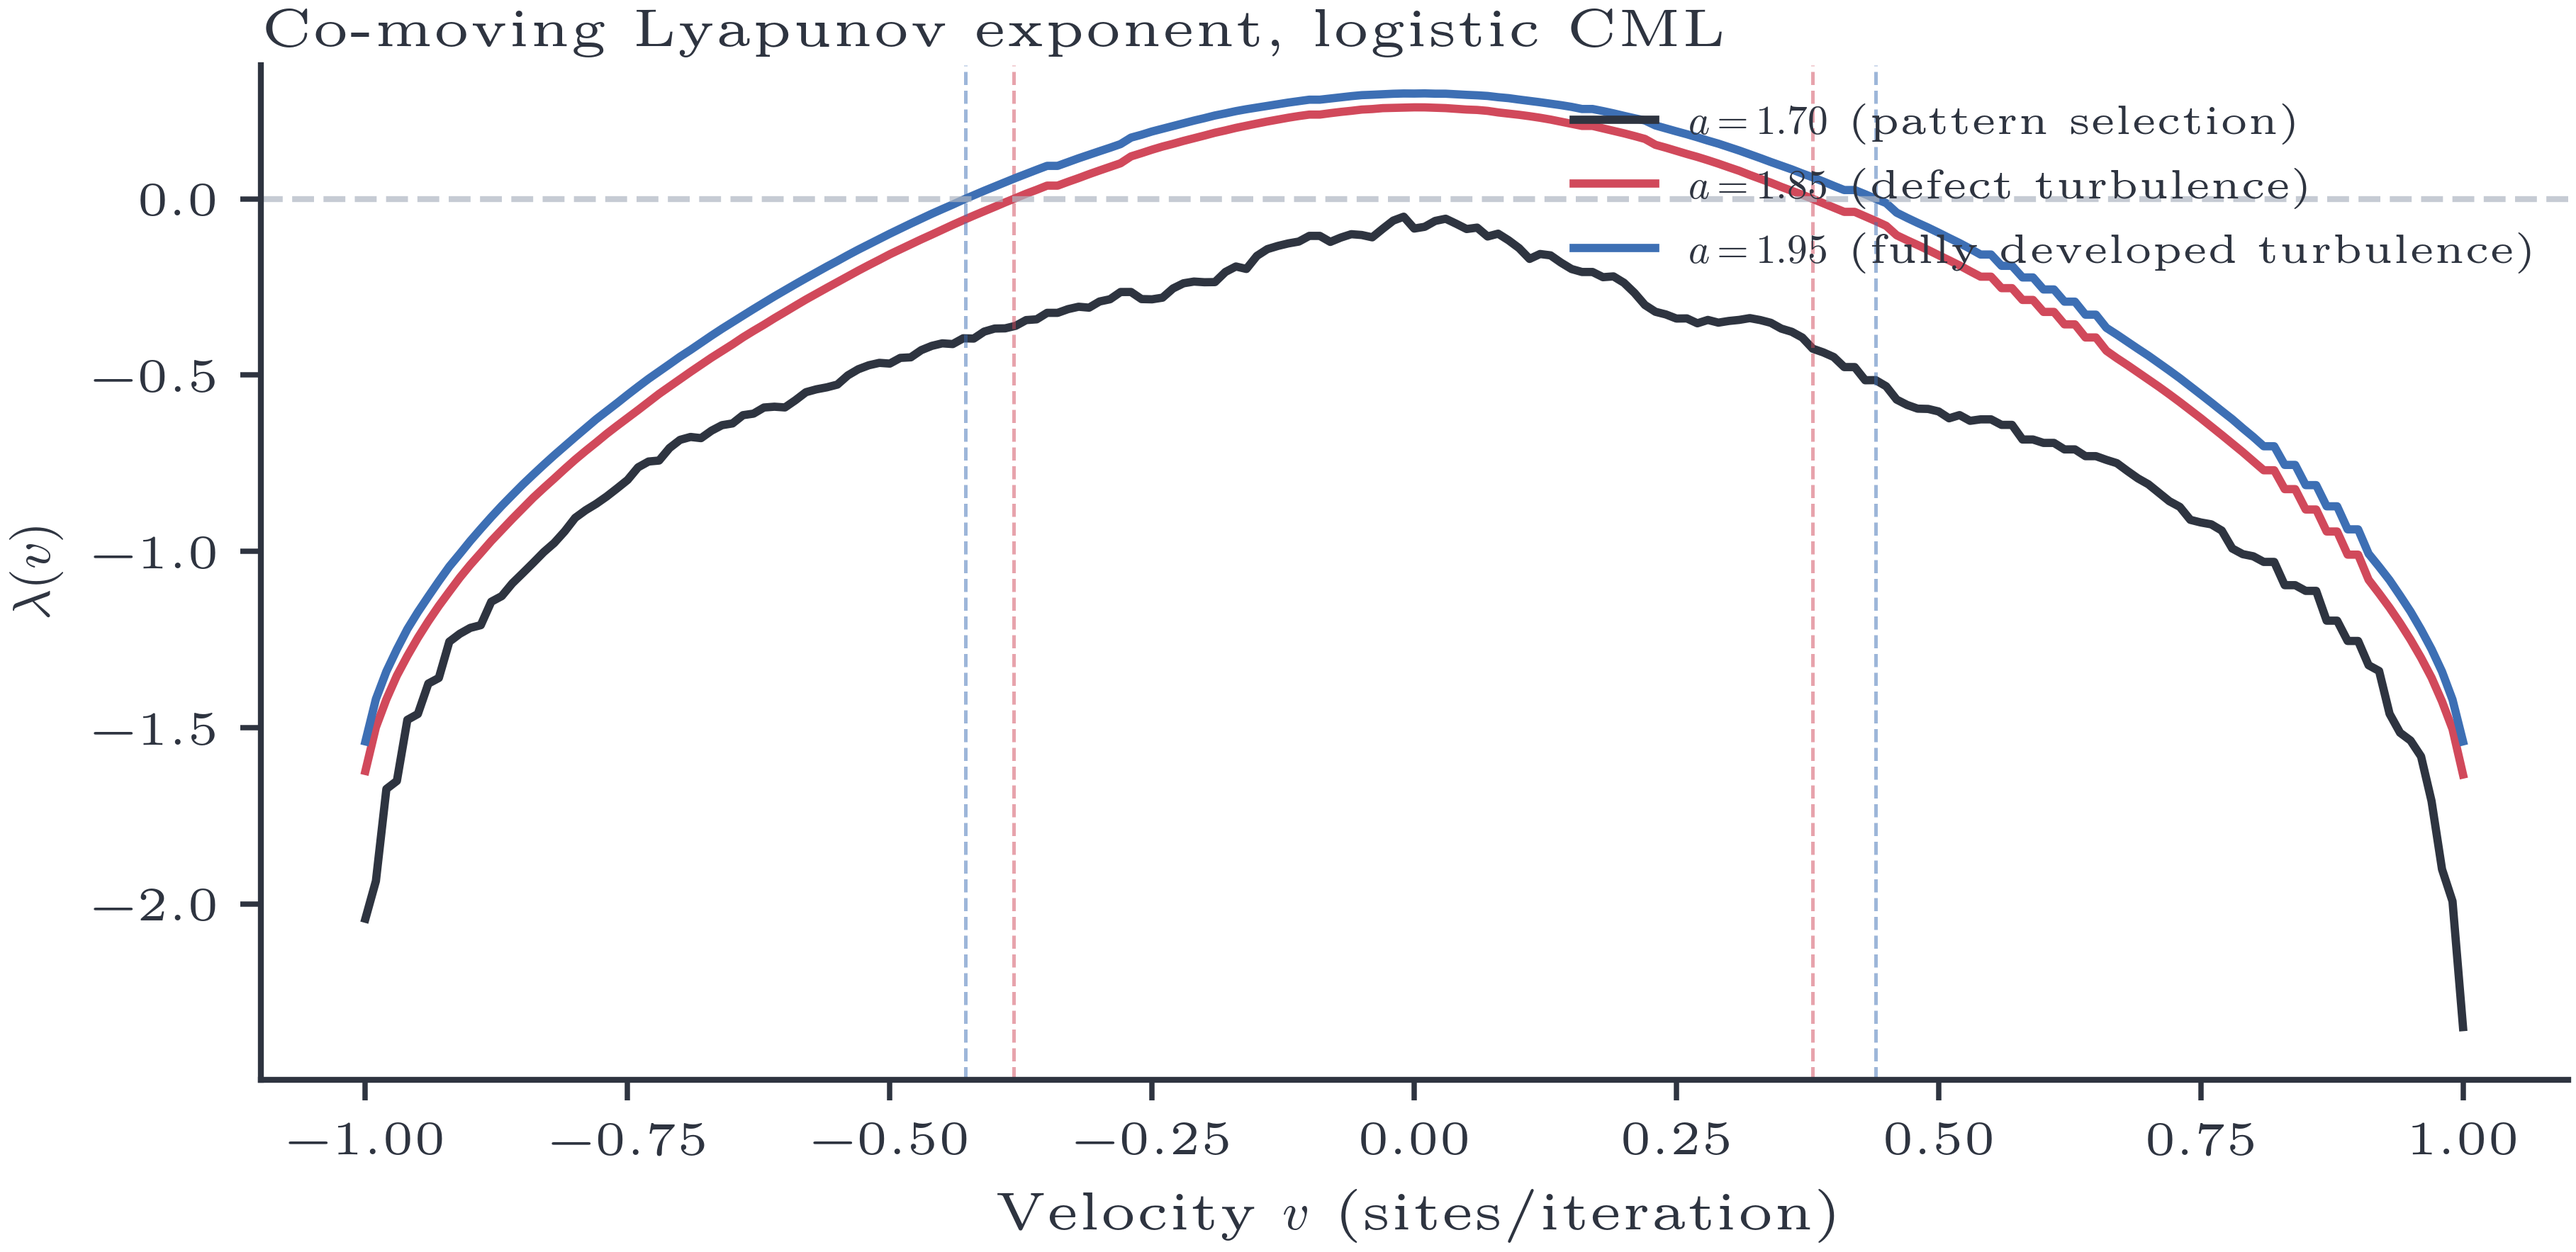
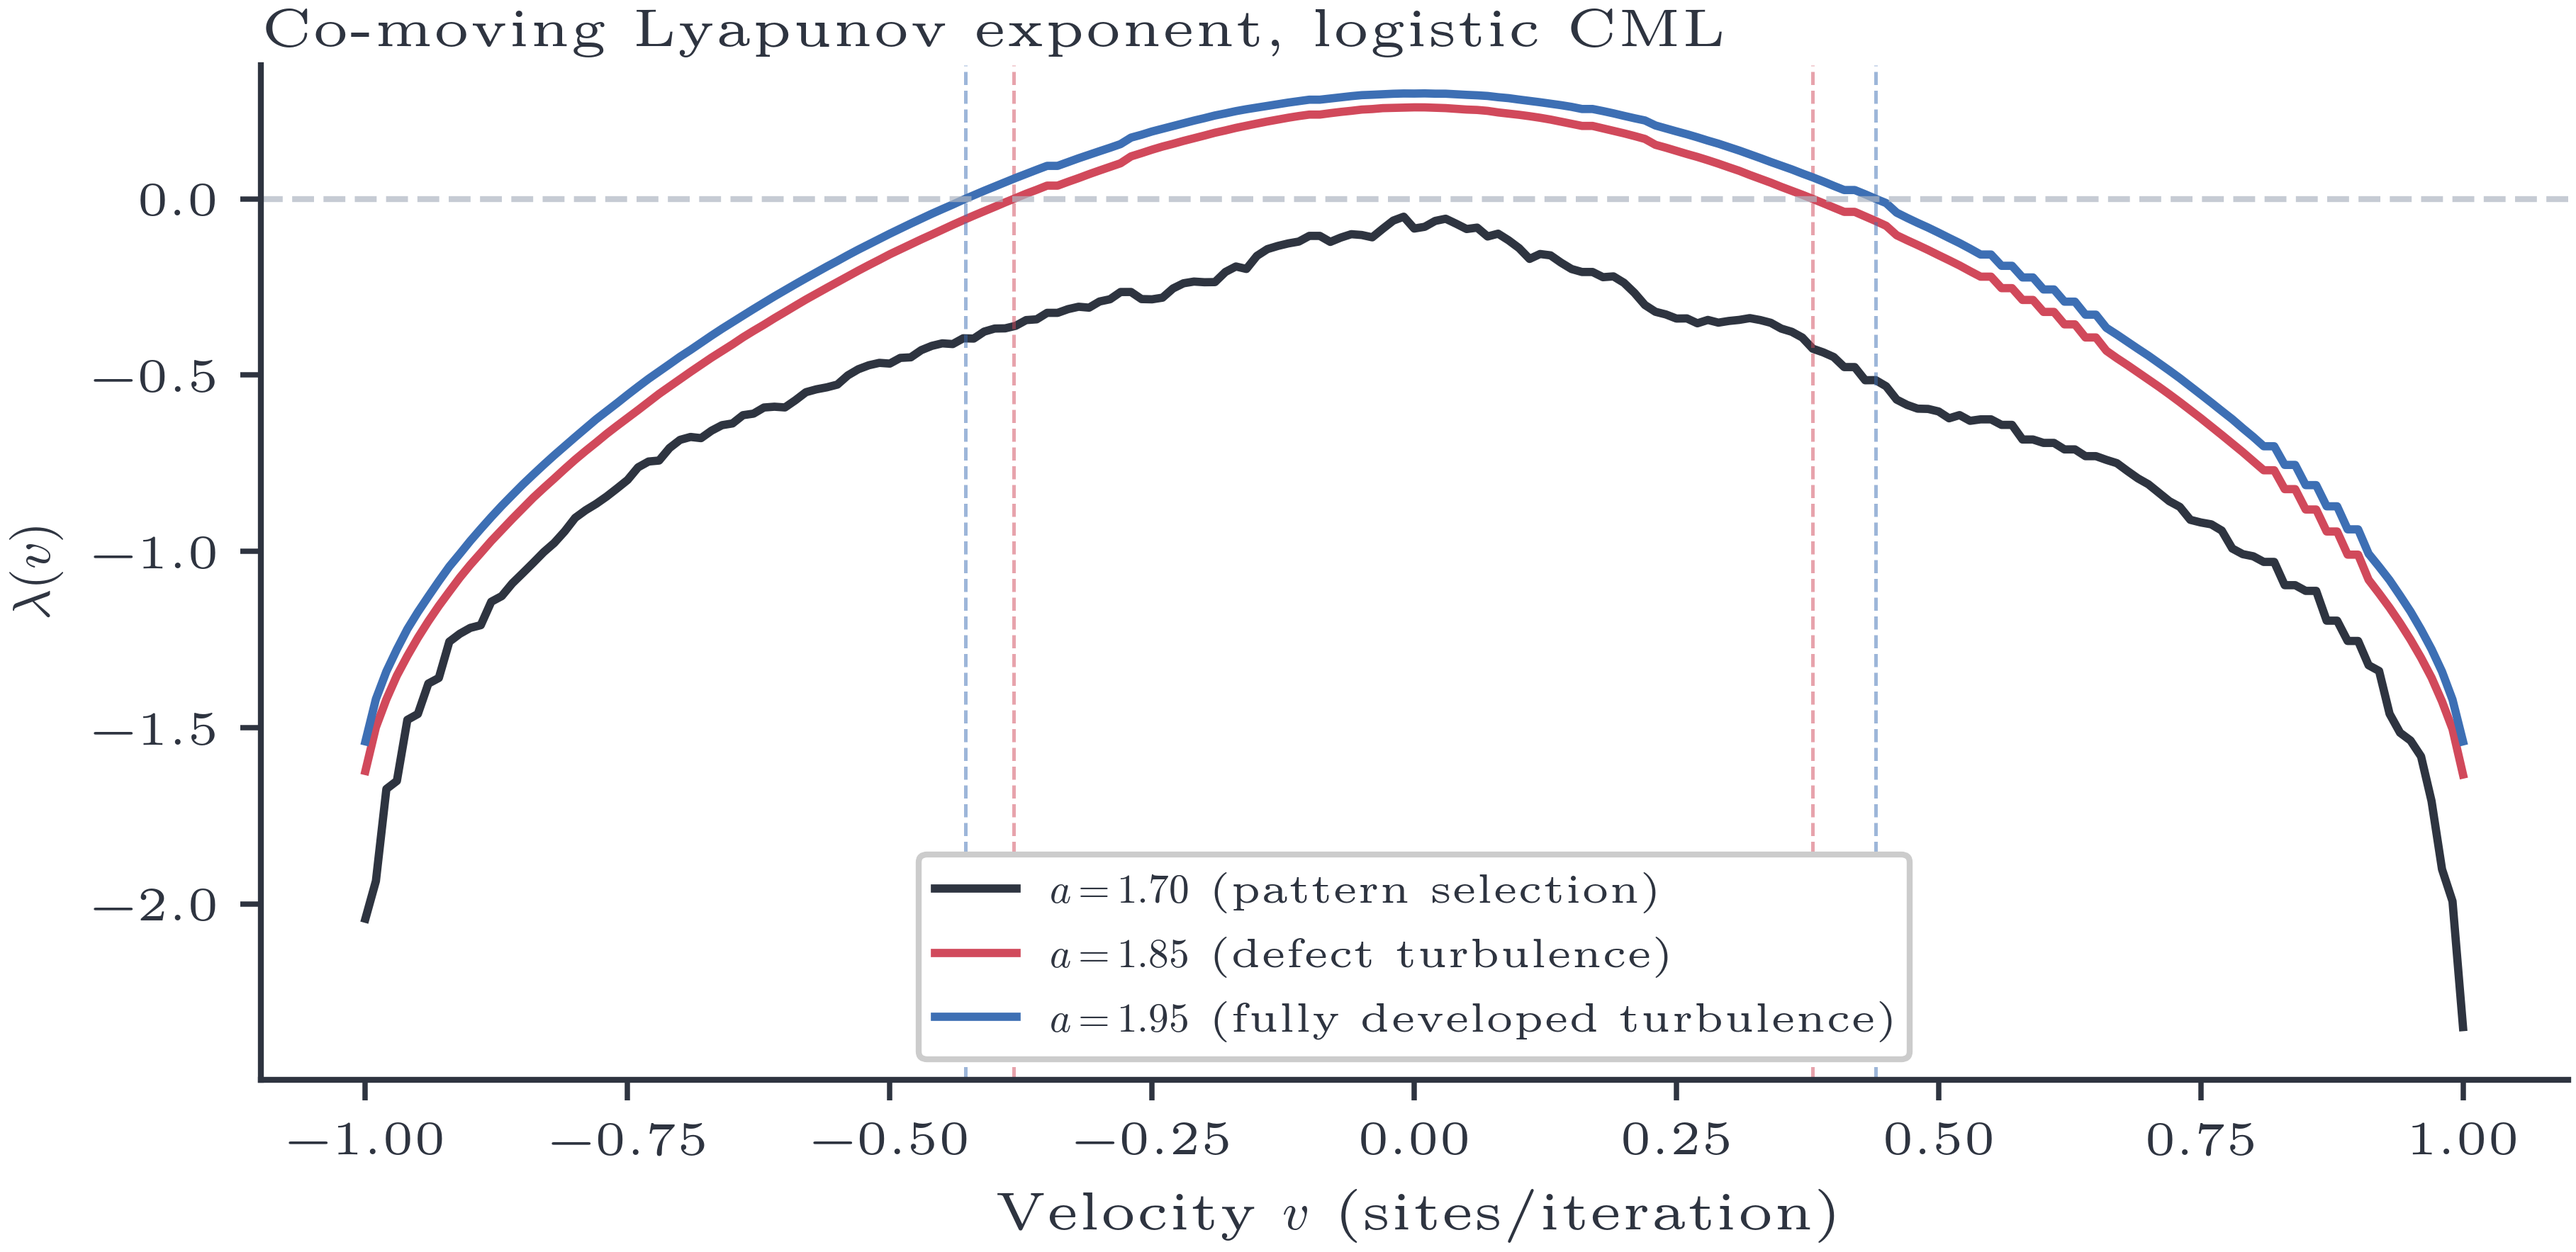
fix(figures): Fig9 inset clear of curves, Fig27 legend lower-center+box
Reposition/shrink the map_IV Lyapunov inset to the lower-right empty
region (was overlapping the main curves), and move the co-moving Lyapunov
legend to lower-center with a solid white box. Presentation-only; no .npz
changed. (Figs 18/24/26 title overlaps deferred to a title-shortening pass.)

diff --git a/src/dynachaos/cml/comoving_figure.py b/src/dynachaos/cml/comoving_figure.py
@@ -86,6 +86,7 @@ def plot(data):
     import matplotlib.pyplot as plt
 
     from dynachaos.utils.style import (
+        COLORS,
         apply_axes_polish,
         figure_spec,
         finalize_legend,
@@ -144,7 +145,14 @@ def plot(data):
     ax.set_title(r"Co-moving Lyapunov exponent, logistic CML", loc="left")
 
     apply_axes_polish(ax, kind="double", title_loc="left", grid=False)
-    finalize_legend(ax, kind="double", loc="upper right")
+    finalize_legend(
+        ax,
+        kind="double",
+        loc="lower center",
+        frameon=True,
+        framealpha=1.0,
+        facecolor=COLORS["offwhite"],
+    )
 
     fig.savefig(OUTPUT_PNG, dpi=600, bbox_inches="tight")
     plt.close(fig)

diff --git a/src/dynachaos/maps/torus_doubling.py b/src/dynachaos/maps/torus_doubling.py
@@ -336,7 +336,7 @@ def plot_lyapunov(data):
     apply_axes_polish(ax, kind="double", title_loc="left", grid=False)
     finalize_legend(ax, kind="double", loc="upper right")
 
-    axins = inset_axes(ax, width="38%", height="42%", loc="lower left", borderpad=1.0)
+    axins = inset_axes(ax, width="32%", height="34%", loc="lower right", borderpad=1.0)
     axins.plot(D, spectra[:, 1], color=lyap_color(1), lw=0.8)
     reference_line(axins, 0, axis="y")
     axins.set_xlim(D.min(), D.max())
